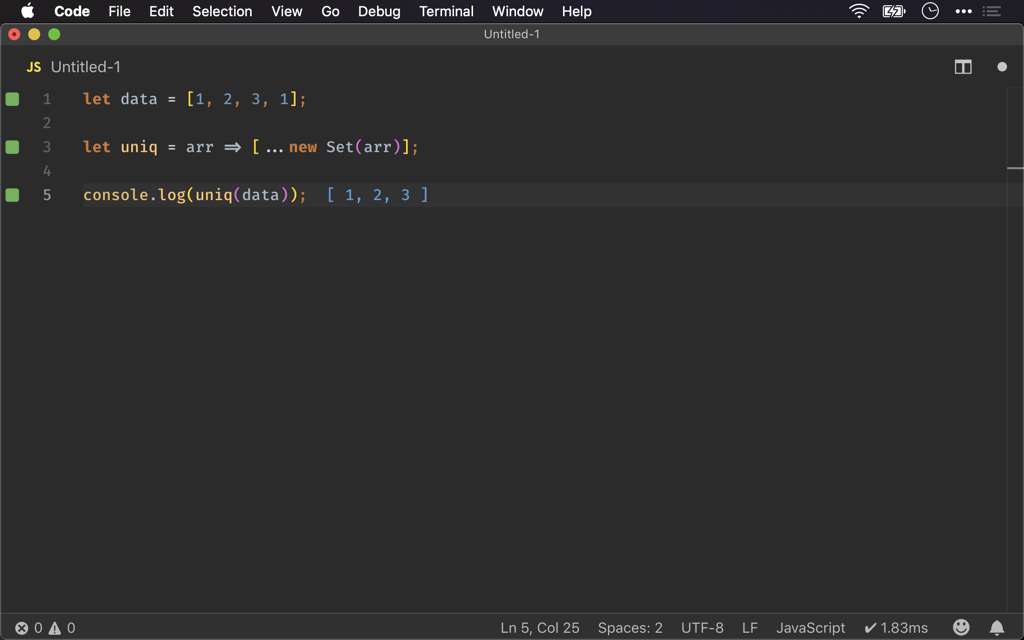
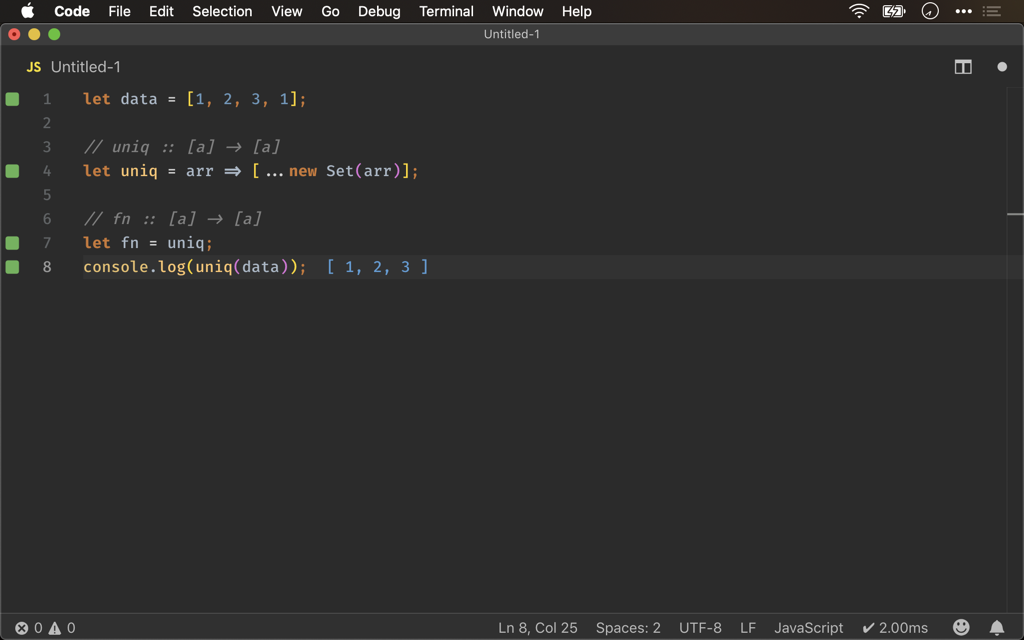
Ramda 之 uniq()

diff --git a/source/_posts/ramda/uniq.md b/source/_posts/ramda/uniq.md
@@ -3,7 +3,7 @@ tags:
   - Ramda
   - Ramda/uniq
 feature: images/feature/ramda.png
-date: 2019-05-10 23:26:20
+date: 2019-05-13 18:26:20
 ---
 ECMAScript 的 `Array.prototype` 並沒有內建 `uniq()`，在 ECMAScript 2015 可使用 `Set` 時實現，但僅限於 Primitive；Ramda 的 `uniq()` 可同時處理 Primitive 與 Object。
 
@@ -20,8 +20,11 @@ Ramda 0.26.1
 ```javascript
 let data = [1, 2, 3, 1];
 
+// uniq :: [a] -> [a]
 let uniq = arr => [...new Set(arr)];
 
+// fn :: [a] -> [a]
+let fn = uniq;
 console.log(uniq(data));
 ```
 
@@ -40,7 +43,9 @@ import { uniq } from 'ramda';
 
 let data = [1, 2, 3, 1];
 
-console.log(uniq(data));
+// fn :: [a] -> [a]
+let fn = uniq
+console.log(fn(data));
 ```
 
 事實上 Ramda 已經提供 `uniq()`，可直接使用。
@@ -66,6 +71,8 @@ let data = [
   { title: 'FP in JavaScript', price: 100 }
 ];
 
+// fn :: [a] -> [a]
+let fn = uniq;
 console.dir(uniq(data));
 ```
 

diff --git a/source/_posts/ramda/uniqby.md b/source/_posts/ramda/uniqby.md
@@ -5,7 +5,7 @@ tags:
   - Ramda/uniq
   - Ramda/identity
 feature: images/feature/ramda.png
-date: 2019-05-14 15:53:53
+date: 2019-05-13 19:53:53
 ---
 對於一般需求，`uniq()` 即可勝任，但若需經過 Function 轉換後才比較，則要使用 `uniqBy()`，自行傳入 Callback。
 

diff --git a/source/_posts/ramda/eqby.md b/source/_posts/ramda/eqby.md
@@ -4,7 +4,7 @@ tags:
   - Ramda/eqBy
   - Ramda/uniqWith
 feature: images/feature/ramda.png
-date: 2019-05-13 18:36:07
+date: 2019-05-14 18:36:07
 ---
 Ramda 有些 Function 很少直接使用，而是用來產生 Predicate，`eqBy()` 就是其中之一。
 
